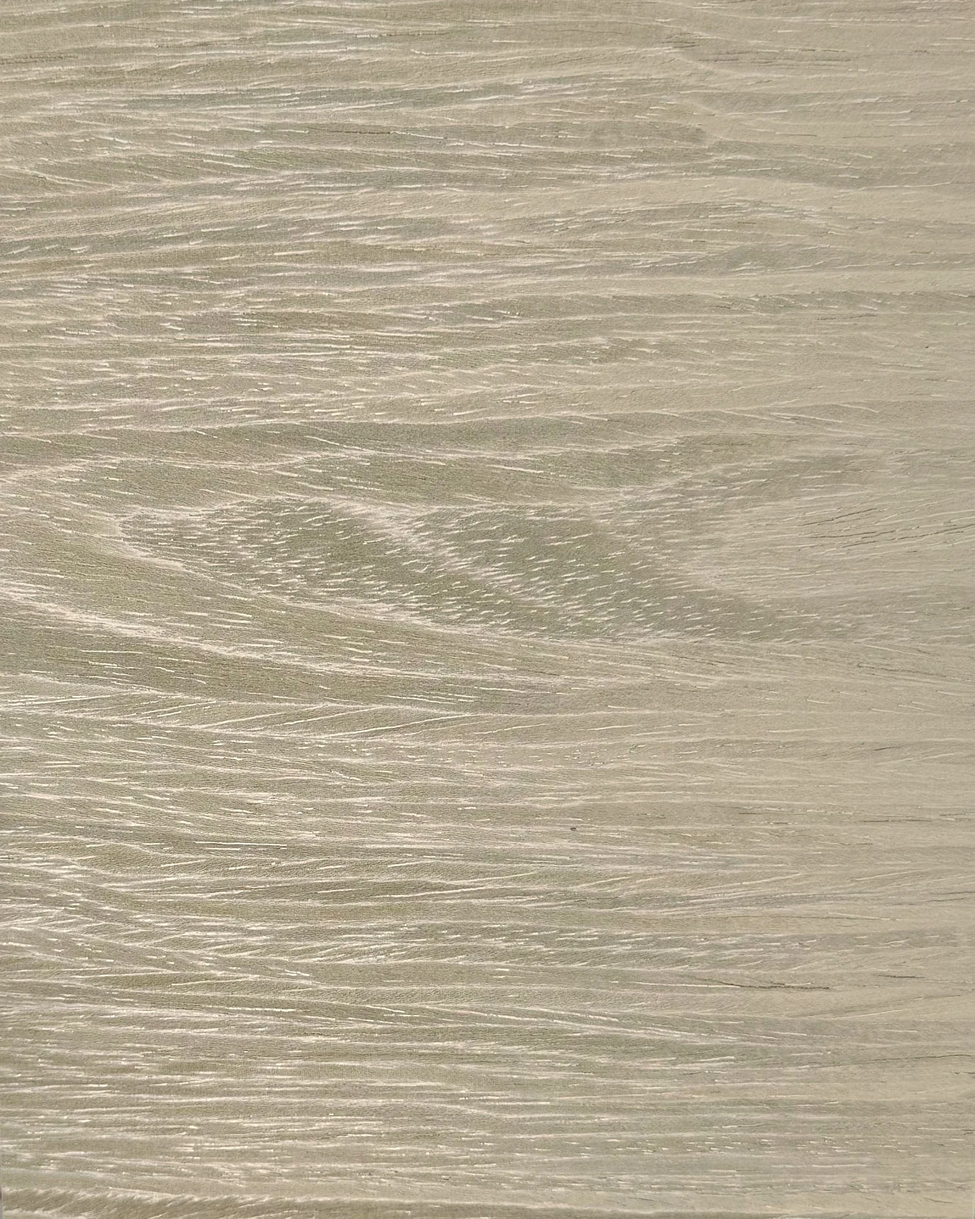
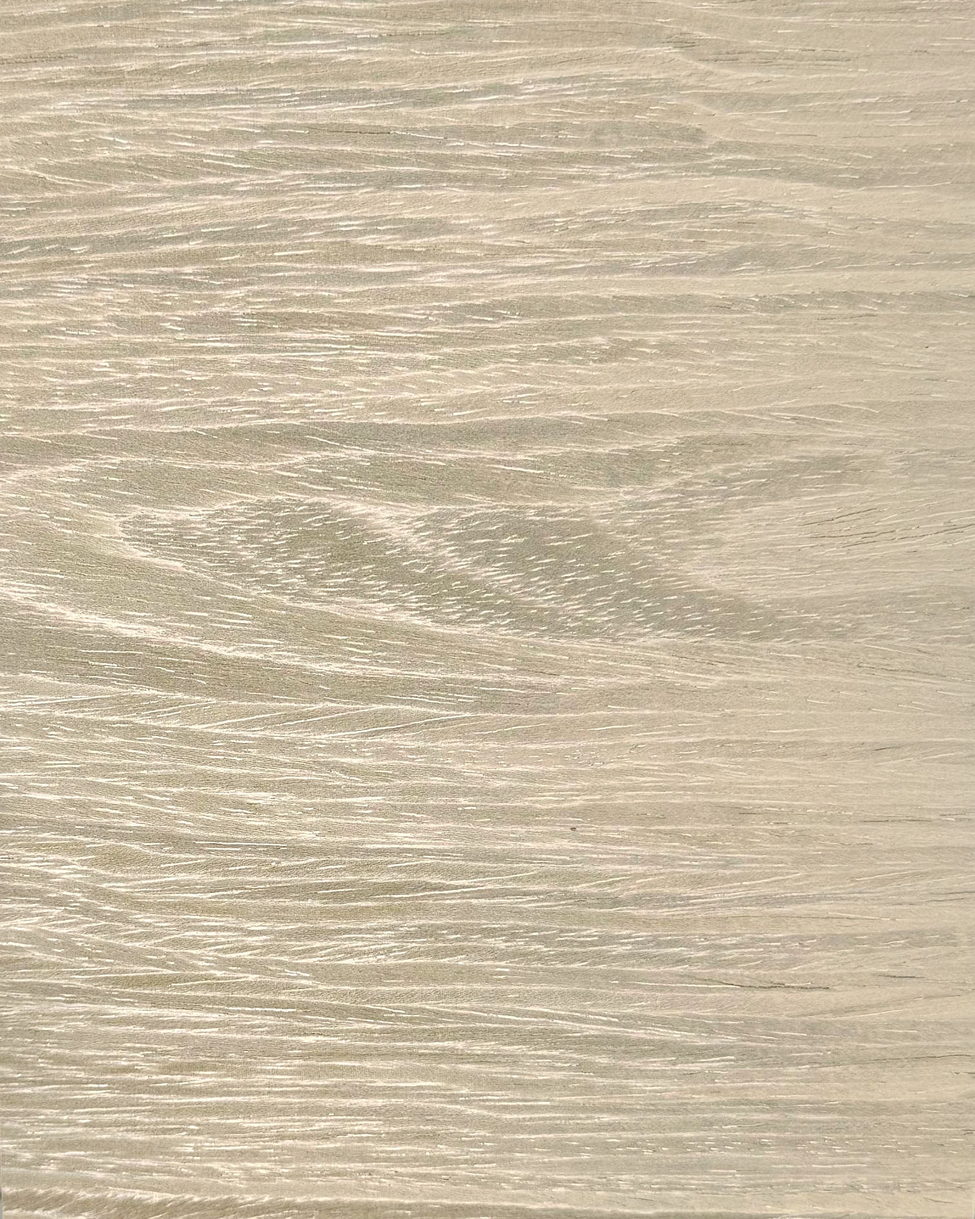
Use a brighter, evenly lit photo for the Champagne Elm swatch

diff --git a/src/data.js b/src/data.js
@@ -2682,7 +2682,7 @@ export const PRODUCTS = [
     tones: ['warm'],
     species: 'Elm (Ulmus)',
     idSpecies: 'Elm (Ulmus)',
-    image: '/assets/image/OSLO CHAMPAGNE ELM.webp?v=3',
+    image: '/assets/image/OSLO CHAMPAGNE ELM.webp?v=4',
     hiResImage: '/assets/hires/OSLO CHAMPAGNE ELM.png',
     bestFor: 'High-end hospitality, elegant residential furniture, unique feature panels',
     idBestFor: 'hospitality kelas atas, furnitur residensial elegan, panel aksen unik',
